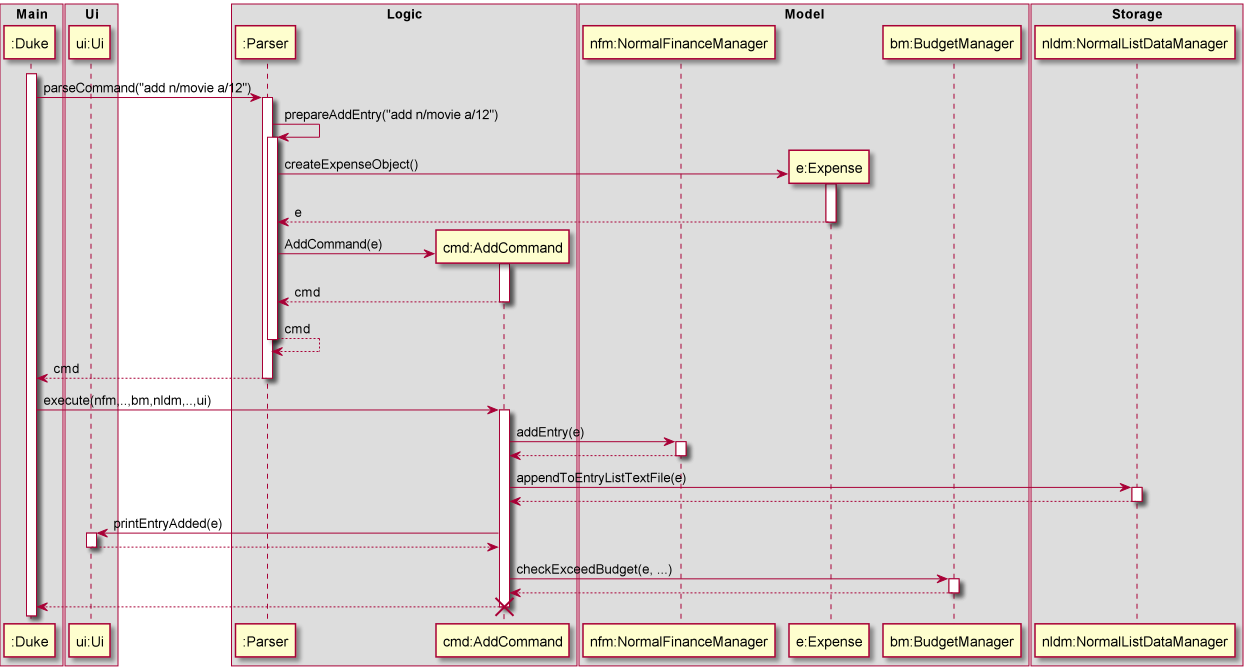
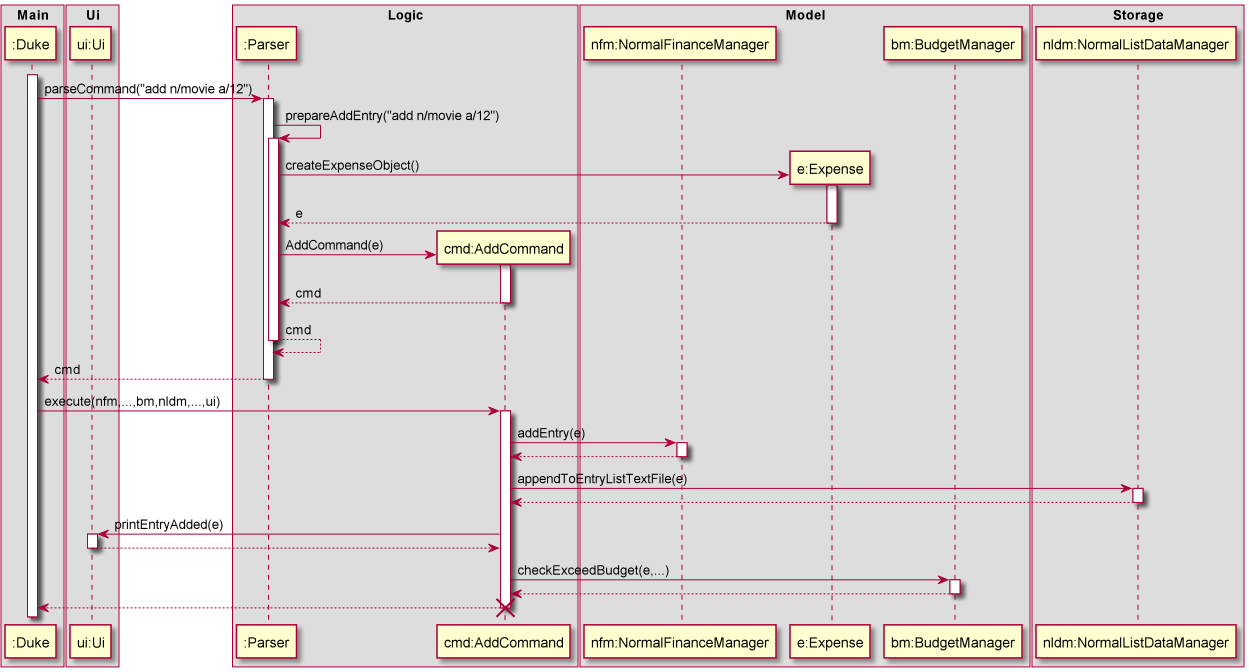
Update DG sequence diagram format

diff --git a/docs/DeveloperGuide.md b/docs/DeveloperGuide.md
@@ -95,7 +95,8 @@ The Sequence Diagram below illustrates the interactions within the `Logic` compo
 ![](images/CaptureLogicSequence.PNG)
 
 > As the `execute` method of `Duke` class takes in 7 arguments but only some are used in this
-> command's case, unused arguments are represented as `..` to focus on the used arguments. Same reason for `checkExceedBudget` applies.
+> command's case, unused arguments are represented as `...` to focus on the used arguments. Same reason for `checkExceedBudget` applies.
+> This also applies for the sequence diagrams in the following sections.
 
 ### <a name="model"></a>Model Component
 
